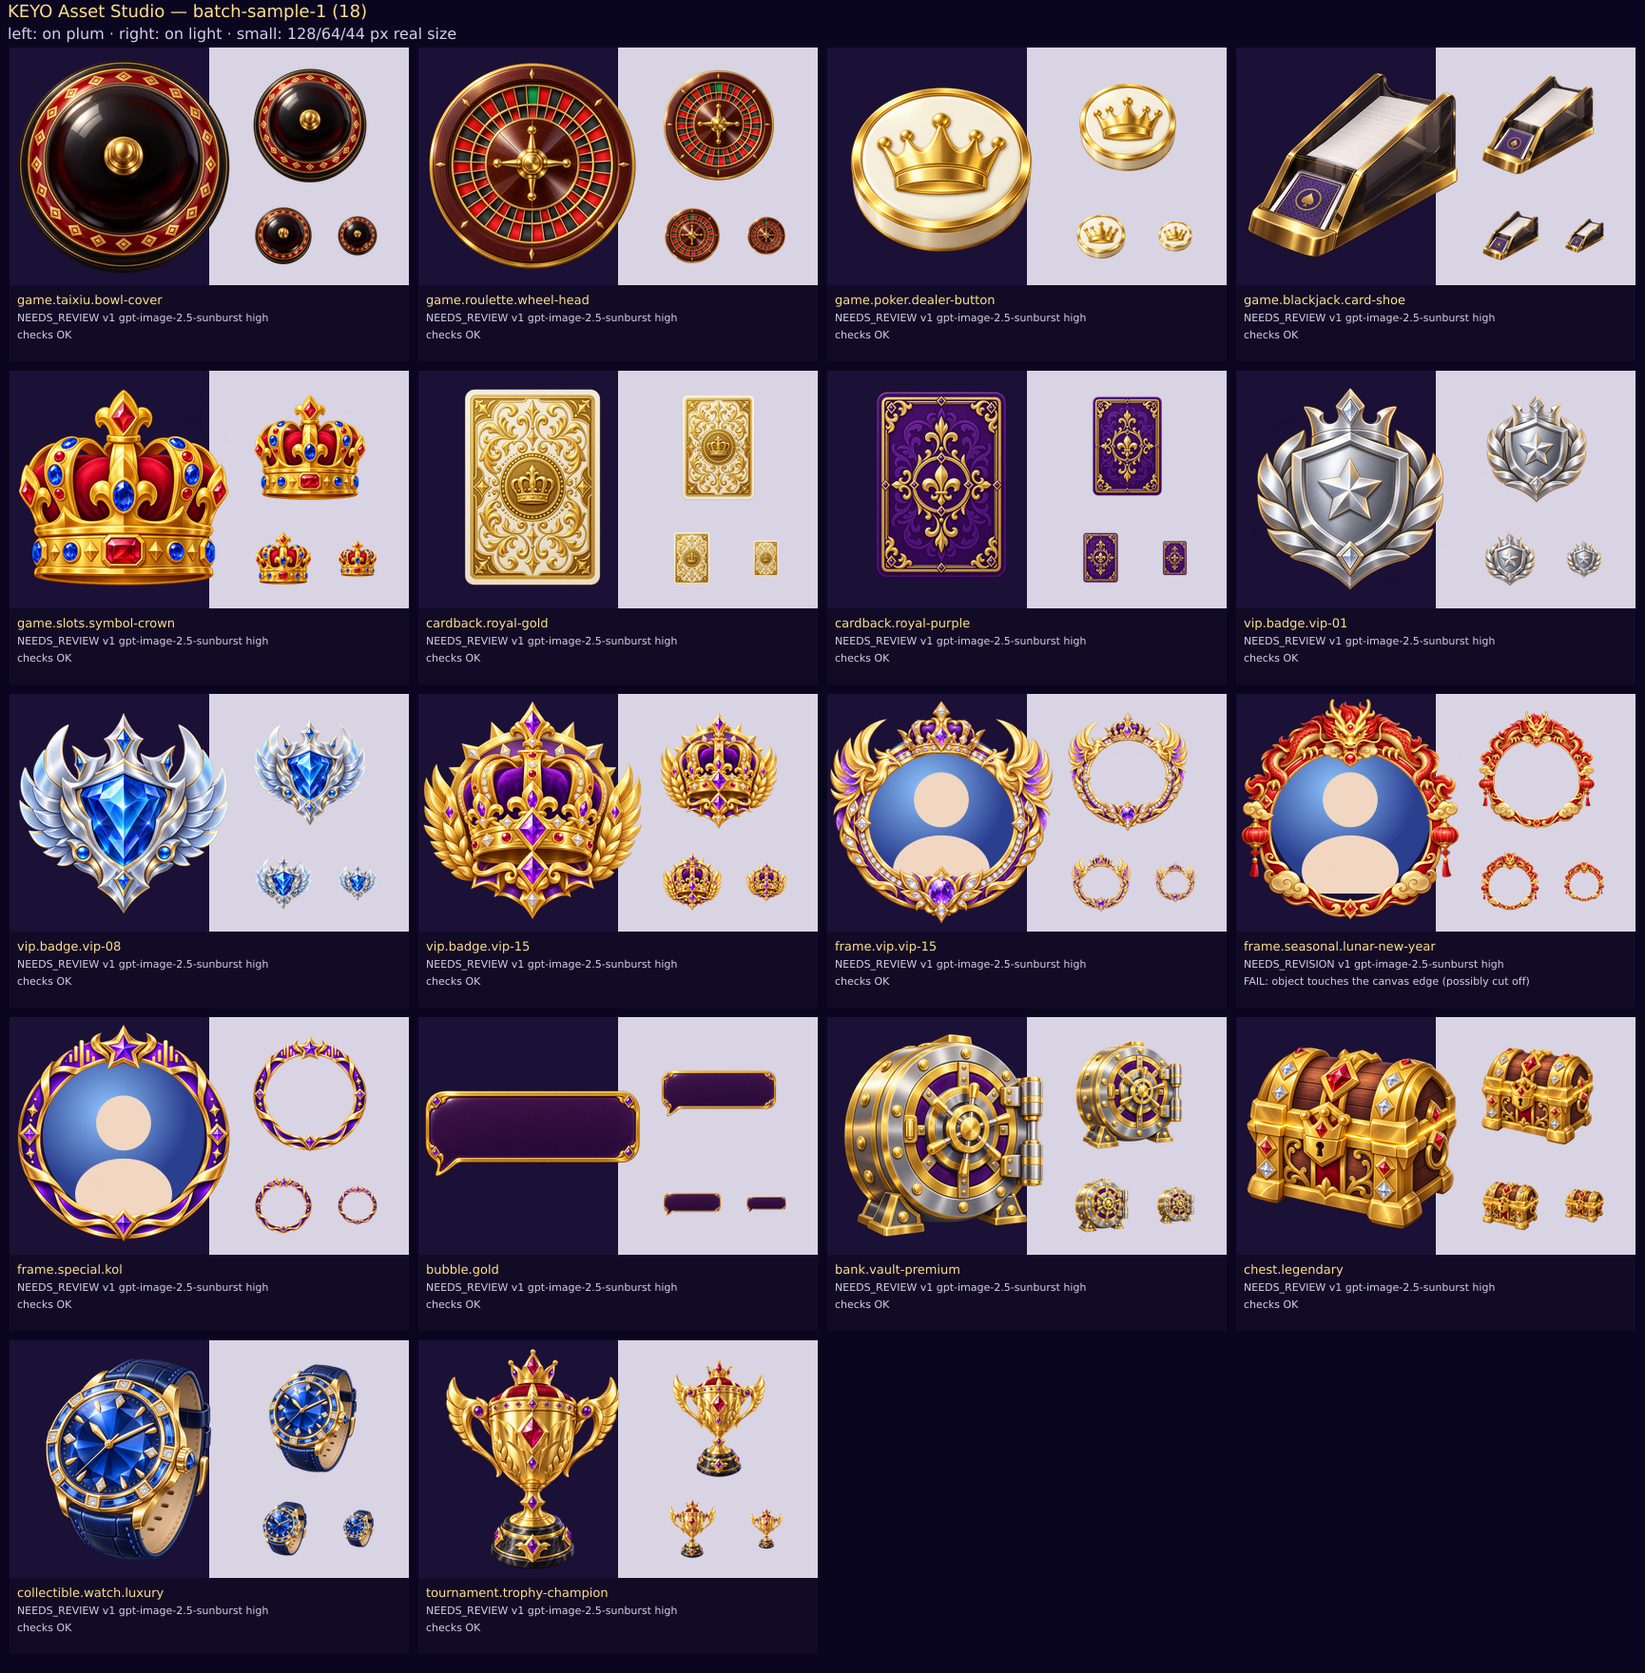
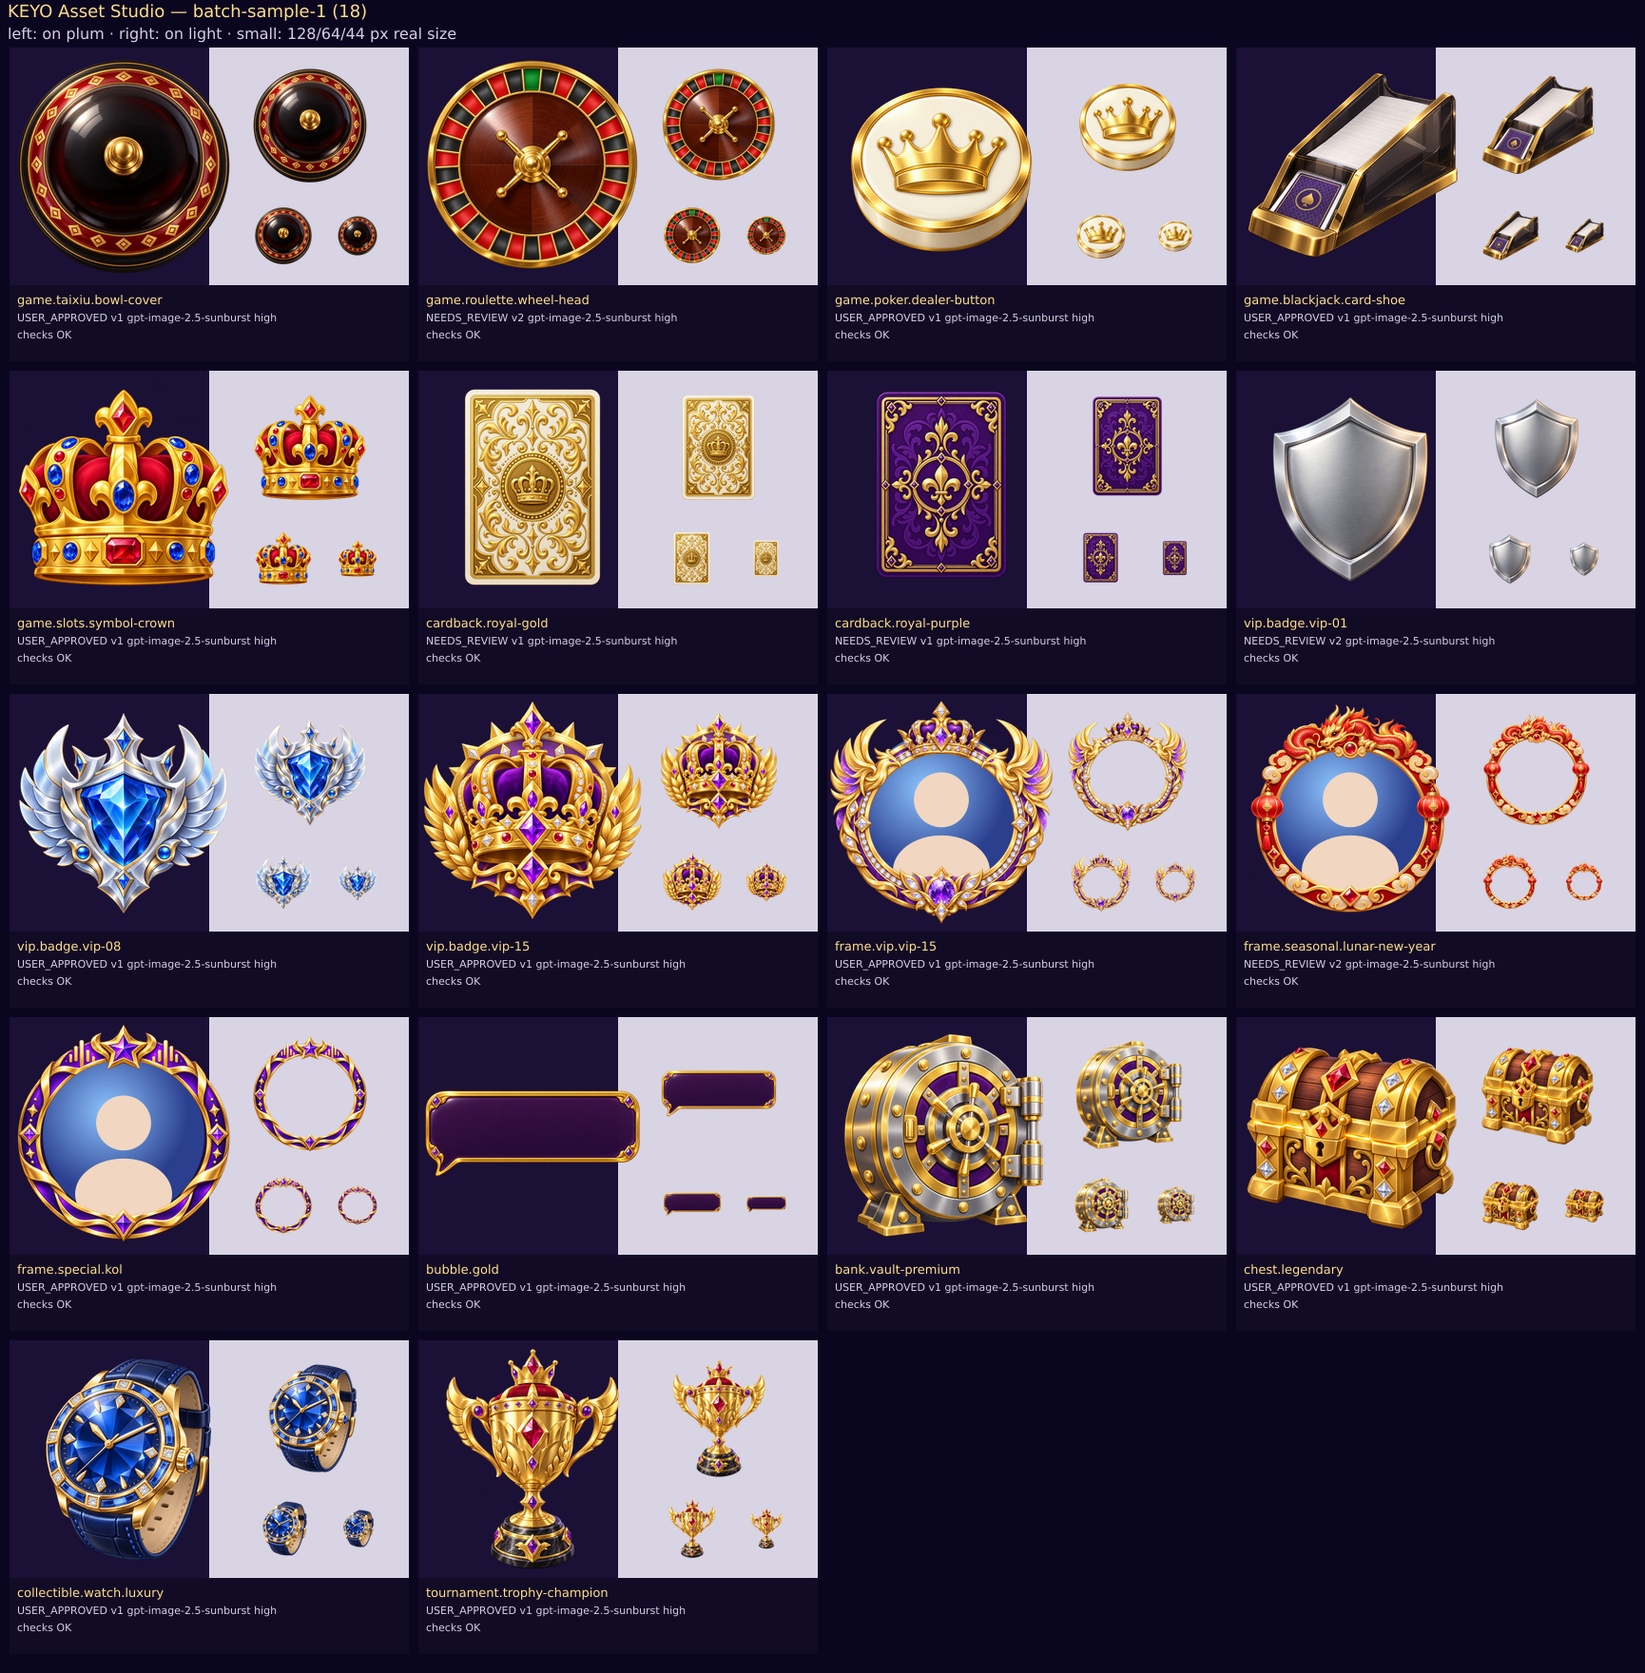
chore(asset-studio): run 42315906533 — manifest, ledger, previews, reports

diff --git a/docs/asset-studio/MANIFEST.md b/docs/asset-studio/MANIFEST.md
@@ -7,9 +7,9 @@ Nguồn dữ liệu: `assets/studio/manifest.json` (sinh từ `tools/asset-studi
 | Trạng thái | Số |
 |---|---|
 | EXISTING_APPROVED | 9 |
-| NEEDS_REVIEW | 17 |
+| USER_APPROVED | 13 |
 | PLANNED | 252 |
-| NEEDS_REVISION | 1 |
+| NEEDS_REVIEW | 5 |
 
 ## Theo nhóm
 
@@ -53,7 +53,7 @@ Nguồn dữ liệu: `assets/studio/manifest.json` (sinh từ `tools/asset-studi
 
 | ID | Tên | Hệ thống | Kích thước | Alpha | Ưu tiên | Batch | Trạng thái | Ước tính (USD) |
 |---|---|---|---|---|---|---|---|---|
-| game.taixiu.bowl-cover | Tài Xỉu bowl cover (top view) | Sic Bo / Tài Xỉu | 1024x1024 | yes | P1 | sample-1 | NEEDS_REVIEW | 0.30 |
+| game.taixiu.bowl-cover | Tài Xỉu bowl cover (top view) | Sic Bo / Tài Xỉu | 1024x1024 | yes | P1 | sample-1 | USER_APPROVED | 0.30 |
 | game.sicbo.dice-plate | Porcelain dice plate | Sic Bo / Tài Xỉu | 1024x1024 | yes | P2 |  | PLANNED | 0.30 |
 | game.sicbo.dice-set | Premium dice (face 1–6 sheet) | Sic Bo / Tài Xỉu | 1536x1024 | yes | P2 |  | PLANNED | 0.45 |
 | game.sicbo.crystal-dome | Crystal shaker dome | Sic Bo / Tài Xỉu | 1024x1024 | yes | P2 |  | PLANNED | 0.30 |
@@ -67,7 +67,7 @@ Nguồn dữ liệu: `assets/studio/manifest.json` (sinh từ `tools/asset-studi
 | game.roulette.pointer | Result pointer | Roulette | 1024x1024 | yes | P2 |  | PLANNED | 0.30 |
 | game.roulette.marker | Betting marker (dolly) | Roulette | 1024x1024 | yes | P2 |  | PLANNED | 0.30 |
 | game.roulette.result-emblem | Result emblem | Roulette | 1024x1024 | yes | P2 |  | PLANNED | 0.30 |
-| game.poker.dealer-button | Dealer button (no letters) | Texas Hold'em Poker | 1024x1024 | yes | P1 | sample-1 | NEEDS_REVIEW | 0.30 |
+| game.poker.dealer-button | Dealer button (no letters) | Texas Hold'em Poker | 1024x1024 | yes | P1 | sample-1 | USER_APPROVED | 0.30 |
 | game.poker.blind-small | Small blind marker | Texas Hold'em Poker | 1024x1024 | yes | P2 |  | PLANNED | 0.30 |
 | game.poker.blind-big | Big blind marker | Texas Hold'em Poker | 1024x1024 | yes | P2 |  | PLANNED | 0.30 |
 | game.poker.pot-pile | Pot chip pile | Texas Hold'em Poker | 1024x1024 | yes | P2 |  | PLANNED | 0.30 |
@@ -79,7 +79,7 @@ Nguồn dữ liệu: `assets/studio/manifest.json` (sinh từ `tools/asset-studi
 | game.cards.action-allin | All-in icon | Card games | 1024x1024 | yes | P2 |  | PLANNED | 0.30 |
 | game.lieng.reveal-fan | Three-card reveal fan | Liêng | 1024x1024 | yes | P2 |  | PLANNED | 0.30 |
 | game.xito.dealer-marker | Xì Tố dealer marker | Xì Tố | 1024x1024 | yes | P2 |  | PLANNED | 0.30 |
-| game.blackjack.card-shoe | Card shoe | Blackjack (Multiplayer & Solo) | 1024x1024 | yes | P1 | sample-1 | NEEDS_REVIEW | 0.30 |
+| game.blackjack.card-shoe | Card shoe | Blackjack (Multiplayer & Solo) | 1024x1024 | yes | P1 | sample-1 | USER_APPROVED | 0.30 |
 | game.blackjack.result-emblem | Blackjack result emblem (no text) | Blackjack (Multiplayer & Solo) | 1024x1024 | yes | P2 |  | PLANNED | 0.30 |
 | game.blackjack.action-hit | Hit icon | Blackjack (Multiplayer & Solo) | 1024x1024 | yes | P2 |  | PLANNED | 0.30 |
 | game.blackjack.action-stand | Stand icon | Blackjack (Multiplayer & Solo) | 1024x1024 | yes | P2 |  | PLANNED | 0.30 |
@@ -94,7 +94,7 @@ Nguồn dữ liệu: `assets/studio/manifest.json` (sinh từ `tools/asset-studi
 | game.slots.symbol-lemon | Slot symbol: lemon | Slots | 1024x1024 | yes | P2 |  | PLANNED | 0.30 |
 | game.slots.symbol-clover | Slot symbol: clover | Slots | 1024x1024 | yes | P2 |  | PLANNED | 0.30 |
 | game.slots.symbol-wild | Slot symbol: wild | Slots | 1024x1024 | yes | P2 |  | PLANNED | 0.30 |
-| game.slots.symbol-crown | Slot symbol: crown | Slots | 1024x1024 | yes | P1 | sample-1 | NEEDS_REVIEW | 0.30 |
+| game.slots.symbol-crown | Slot symbol: crown | Slots | 1024x1024 | yes | P1 | sample-1 | USER_APPROVED | 0.30 |
 | game.slots.symbol-scatter | Slot symbol: scatter | Slots | 1024x1024 | yes | P2 |  | PLANNED | 0.30 |
 | game.slots.symbol-gold-bar | Slot symbol: gold-bar | Slots | 1024x1024 | yes | P2 |  | PLANNED | 0.30 |
 | game.slots.cabinet-frame | Slot machine frame | Slots | 1536x1024 | yes | P2 |  | PLANNED | 0.45 |
@@ -126,14 +126,14 @@ Nguồn dữ liệu: `assets/studio/manifest.json` (sinh từ `tools/asset-studi
 | vip.badge.vip-05 | VIP 5 badge | VIP | 1024x1024 | yes | P2 |  | PLANNED | 0.30 |
 | vip.badge.vip-06 | VIP 6 badge | VIP | 1024x1024 | yes | P2 |  | PLANNED | 0.30 |
 | vip.badge.vip-07 | VIP 7 badge | VIP | 1024x1024 | yes | P2 |  | PLANNED | 0.30 |
-| vip.badge.vip-08 | VIP 8 badge | VIP | 1024x1024 | yes | P1 | sample-1 | NEEDS_REVIEW | 0.30 |
+| vip.badge.vip-08 | VIP 8 badge | VIP | 1024x1024 | yes | P1 | sample-1 | USER_APPROVED | 0.30 |
 | vip.badge.vip-09 | VIP 9 badge | VIP | 1024x1024 | yes | P2 |  | PLANNED | 0.30 |
 | vip.badge.vip-10 | VIP 10 badge | VIP | 1024x1024 | yes | P2 |  | PLANNED | 0.30 |
 | vip.badge.vip-11 | VIP 11 badge | VIP | 1024x1024 | yes | P2 |  | PLANNED | 0.30 |
 | vip.badge.vip-12 | VIP 12 badge | VIP | 1024x1024 | yes | P2 |  | PLANNED | 0.30 |
 | vip.badge.vip-13 | VIP 13 badge | VIP | 1024x1024 | yes | P2 |  | PLANNED | 0.30 |
 | vip.badge.vip-14 | VIP 14 badge | VIP | 1024x1024 | yes | P2 |  | PLANNED | 0.30 |
-| vip.badge.vip-15 | VIP 15 badge | VIP | 1024x1024 | yes | P1 | sample-1 | NEEDS_REVIEW | 0.30 |
+| vip.badge.vip-15 | VIP 15 badge | VIP | 1024x1024 | yes | P1 | sample-1 | USER_APPROVED | 0.30 |
 
 ## frame
 
@@ -142,11 +142,11 @@ Nguồn dữ liệu: `assets/studio/manifest.json` (sinh từ `tools/asset-studi
 | frame.vip.vip-05 | VIP 5 frame | Profile / Avatar frames | 1024x1024 | yes | P2 |  | PLANNED | 0.30 |
 | frame.vip.vip-07 | VIP 7 frame | Profile / Avatar frames | 1024x1024 | yes | P2 |  | PLANNED | 0.30 |
 | frame.vip.vip-10 | VIP 10 frame | Profile / Avatar frames | 1024x1024 | yes | P2 |  | PLANNED | 0.30 |
-| frame.vip.vip-15 | VIP 15 frame | Profile / Avatar frames | 1024x1024 | yes | P1 | sample-1 | NEEDS_REVIEW | 0.30 |
+| frame.vip.vip-15 | VIP 15 frame | Profile / Avatar frames | 1024x1024 | yes | P1 | sample-1 | USER_APPROVED | 0.30 |
 | frame.seasonal.halloween | halloween frame | Profile / Avatar frames | 1024x1024 | yes | P2 |  | PLANNED | 0.30 |
 | frame.seasonal.christmas | christmas frame | Profile / Avatar frames | 1024x1024 | yes | P2 |  | PLANNED | 0.30 |
 | frame.seasonal.new-year | new-year frame | Profile / Avatar frames | 1024x1024 | yes | P2 |  | PLANNED | 0.30 |
-| frame.seasonal.lunar-new-year | lunar-new-year frame | Profile / Avatar frames | 1024x1024 | yes | P1 | sample-1 | NEEDS_REVISION | 0.30 |
+| frame.seasonal.lunar-new-year | lunar-new-year frame | Profile / Avatar frames | 1024x1024 | yes | P1 | sample-1 | NEEDS_REVIEW | 0.30 |
 | frame.seasonal.valentine | valentine frame | Profile / Avatar frames | 1024x1024 | yes | P2 |  | PLANNED | 0.30 |
 | frame.seasonal.easter | easter frame | Profile / Avatar frames | 1024x1024 | yes | P2 |  | PLANNED | 0.30 |
 | frame.seasonal.summer | summer frame | Profile / Avatar frames | 1024x1024 | yes | P2 |  | PLANNED | 0.30 |
@@ -162,7 +162,7 @@ Nguồn dữ liệu: `assets/studio/manifest.json` (sinh từ `tools/asset-studi
 | frame.tournament.grand-champion | Tournament grand-champion frame | Profile / Avatar frames | 1024x1024 | yes | P2 |  | PLANNED | 0.30 |
 | frame.special.founder | founder frame | Profile / Avatar frames | 1024x1024 | yes | P2 |  | PLANNED | 0.30 |
 | frame.special.early-supporter | early-supporter frame | Profile / Avatar frames | 1024x1024 | yes | P2 |  | PLANNED | 0.30 |
-| frame.special.kol | kol frame | Profile / Avatar frames | 1024x1024 | yes | P1 | sample-1 | NEEDS_REVIEW | 0.30 |
+| frame.special.kol | kol frame | Profile / Avatar frames | 1024x1024 | yes | P1 | sample-1 | USER_APPROVED | 0.30 |
 | frame.special.creator | creator frame | Profile / Avatar frames | 1024x1024 | yes | P2 |  | PLANNED | 0.30 |
 | frame.special.reviewer | reviewer frame | Profile / Avatar frames | 1024x1024 | yes | P2 |  | PLANNED | 0.30 |
 | frame.special.collector | collector frame | Profile / Avatar frames | 1024x1024 | yes | P2 |  | PLANNED | 0.30 |
@@ -191,7 +191,7 @@ Nguồn dữ liệu: `assets/studio/manifest.json` (sinh từ `tools/asset-studi
 |---|---|---|---|---|---|---|---|---|
 | bubble.default | Chat bubble: default | Chat | 1536x1024 | yes | P2 |  | PLANNED | 0.45 |
 | bubble.classic | Chat bubble: classic | Chat | 1536x1024 | yes | P2 |  | PLANNED | 0.45 |
-| bubble.gold | Chat bubble: gold | Chat | 1536x1024 | yes | P1 | sample-1 | NEEDS_REVIEW | 0.45 |
+| bubble.gold | Chat bubble: gold | Chat | 1536x1024 | yes | P1 | sample-1 | USER_APPROVED | 0.45 |
 | bubble.diamond | Chat bubble: diamond | Chat | 1536x1024 | yes | P2 |  | PLANNED | 0.45 |
 | bubble.vip | Chat bubble: vip | Chat | 1536x1024 | yes | P2 |  | PLANNED | 0.45 |
 | bubble.royal | Chat bubble: royal | Chat | 1536x1024 | yes | P2 |  | PLANNED | 0.45 |
@@ -261,7 +261,7 @@ Nguồn dữ liệu: `assets/studio/manifest.json` (sinh từ `tools/asset-studi
 
 | ID | Tên | Hệ thống | Kích thước | Alpha | Ưu tiên | Batch | Trạng thái | Ước tính (USD) |
 |---|---|---|---|---|---|---|---|---|
-| bank.vault-premium | Bank: vault-premium | Bank | 1024x1024 | yes | P1 | sample-1 | NEEDS_REVIEW | 0.30 |
+| bank.vault-premium | Bank: vault-premium | Bank | 1024x1024 | yes | P1 | sample-1 | USER_APPROVED | 0.30 |
 | bank.vault-open | Bank: vault-open | Bank | 1024x1024 | yes | P2 |  | PLANNED | 0.30 |
 | bank.money-bag | Bank: money-bag | Bank | 1024x1024 | yes | P2 |  | PLANNED | 0.30 |
 | bank.money-bag-vip | Bank: money-bag-vip | Bank | 1024x1024 | yes | P2 |  | PLANNED | 0.30 |
@@ -273,7 +273,7 @@ Nguồn dữ liệu: `assets/studio/manifest.json` (sinh từ `tools/asset-studi
 | chest.common | Chest: common | Rewards | 1024x1024 | yes | P2 |  | PLANNED | 0.30 |
 | chest.rare | Chest: rare | Rewards | 1024x1024 | yes | P2 |  | PLANNED | 0.30 |
 | chest.epic | Chest: epic | Rewards | 1024x1024 | yes | P2 |  | PLANNED | 0.30 |
-| chest.legendary | Chest: legendary | Rewards | 1024x1024 | yes | P1 | sample-1 | NEEDS_REVIEW | 0.30 |
+| chest.legendary | Chest: legendary | Rewards | 1024x1024 | yes | P1 | sample-1 | USER_APPROVED | 0.30 |
 | chest.limited | Chest: limited | Rewards | 1024x1024 | yes | P2 |  | PLANNED | 0.30 |
 | chest.event | Chest: event | Rewards | 1024x1024 | yes | P2 |  | PLANNED | 0.30 |
 
@@ -282,7 +282,7 @@ Nguồn dữ liệu: `assets/studio/manifest.json` (sinh từ `tools/asset-studi
 | ID | Tên | Hệ thống | Kích thước | Alpha | Ưu tiên | Batch | Trạng thái | Ước tính (USD) |
 |---|---|---|---|---|---|---|---|---|
 | collectible.watch.classic | watch: classic | Collectibles / Gifts | 1024x1024 | yes | P2 |  | PLANNED | 0.30 |
-| collectible.watch.luxury | watch: luxury | Collectibles / Gifts | 1024x1024 | yes | P1 | sample-1 | NEEDS_REVIEW | 0.30 |
+| collectible.watch.luxury | watch: luxury | Collectibles / Gifts | 1024x1024 | yes | P1 | sample-1 | USER_APPROVED | 0.30 |
 | collectible.watch.gold | watch: gold | Collectibles / Gifts | 1024x1024 | yes | P2 |  | PLANNED | 0.30 |
 | collectible.watch.diamond | watch: diamond | Collectibles / Gifts | 1024x1024 | yes | P2 |  | PLANNED | 0.30 |
 | collectible.watch.limited | watch: limited | Collectibles / Gifts | 1024x1024 | yes | P2 |  | PLANNED | 0.30 |
@@ -312,7 +312,7 @@ Nguồn dữ liệu: `assets/studio/manifest.json` (sinh từ `tools/asset-studi
 | ID | Tên | Hệ thống | Kích thước | Alpha | Ưu tiên | Batch | Trạng thái | Ước tính (USD) |
 |---|---|---|---|---|---|---|---|---|
 | tournament.trophy | Tournament: trophy | Tournament | 1024x1024 | yes | P2 |  | PLANNED | 0.30 |
-| tournament.trophy-champion | Tournament: trophy-champion | Tournament | 1024x1024 | yes | P1 | sample-1 | NEEDS_REVIEW | 0.30 |
+| tournament.trophy-champion | Tournament: trophy-champion | Tournament | 1024x1024 | yes | P1 | sample-1 | USER_APPROVED | 0.30 |
 | tournament.medal | Tournament: medal | Tournament | 1024x1024 | yes | P2 |  | PLANNED | 0.30 |
 | tournament.ticket | Tournament: ticket | Tournament | 1024x1024 | yes | P2 |  | PLANNED | 0.30 |
 | tournament.banner | Tournament: banner | Tournament | 1024x1024 | yes | P2 |  | PLANNED | 0.30 |

diff --git a/docs/asset-studio/QUALITY.md b/docs/asset-studio/QUALITY.md
@@ -4,21 +4,21 @@ Kiểm tra kỹ thuật tự động (file, kích thước, alpha thật, viền
 
 | Asset | Trạng thái | Kết quả | Lỗi | Cảnh báo | Coverage | Edge alpha | Sharpness | WebP |
 |---|---|---|---|---|---|---|---|---|
-| game.taixiu.bowl-cover | NEEDS_REVIEW | OK |  |  | 0.681 | 0 | 1319.1 | 168 KB |
-| game.roulette.wheel-head | NEEDS_REVIEW | OK |  |  | 0.645 | 0 | 1620.2 | 208 KB |
-| game.poker.dealer-button | NEEDS_REVIEW | OK |  |  | 0.461 | 0 | 684.1 | 99 KB |
-| game.blackjack.card-shoe | NEEDS_REVIEW | OK |  |  | 0.441 | 0 | 907.1 | 129 KB |
-| game.slots.symbol-crown | NEEDS_REVIEW | OK |  |  | 0.546 | 0 | 1369.2 | 178 KB |
+| game.taixiu.bowl-cover | USER_APPROVED | OK |  |  | 0.681 | 0 | 1319.1 | 168 KB |
+| game.roulette.wheel-head | NEEDS_REVIEW | OK |  |  | 0.663 | 0 | 1249.4 | 191 KB |
+| game.poker.dealer-button | USER_APPROVED | OK |  |  | 0.461 | 0 | 684.1 | 99 KB |
+| game.blackjack.card-shoe | USER_APPROVED | OK |  |  | 0.441 | 0 | 907.1 | 129 KB |
+| game.slots.symbol-crown | USER_APPROVED | OK |  |  | 0.546 | 0 | 1369.2 | 178 KB |
 | cardback.royal-gold | NEEDS_REVIEW | OK |  |  | 0.765 | 0 | 3005 | 206 KB |
 | cardback.royal-purple | NEEDS_REVIEW | OK |  |  | 0.692 | 0 | 2166.4 | 154 KB |
-| vip.badge.vip-01 | NEEDS_REVIEW | OK |  |  | 0.464 | 0 | 939.6 | 137 KB |
-| vip.badge.vip-08 | NEEDS_REVIEW | OK |  |  | 0.462 | 0 | 1251.1 | 188 KB |
-| vip.badge.vip-15 | NEEDS_REVIEW | OK |  |  | 0.568 | 0.013 | 1693.1 | 228 KB |
-| frame.vip.vip-15 | NEEDS_REVIEW | OK |  |  | 0.373 | 0.028 | 1550.9 | 245 KB |
-| frame.seasonal.lunar-new-year | NEEDS_REVISION | FAIL | object touches the canvas edge (possibly cut off) |  | 0.326 | 0.014 | 1009.5 | 202 KB |
-| frame.special.kol | NEEDS_REVIEW | OK |  |  | 0.271 | 0.002 | 974.5 | 153 KB |
-| bubble.gold | NEEDS_REVIEW | OK |  |  | 0.441 | 0.001 | 478.1 | 39 KB |
-| bank.vault-premium | NEEDS_REVIEW | OK |  |  | 0.609 | 0 | 1358.7 | 181 KB |
-| chest.legendary | NEEDS_REVIEW | OK |  |  | 0.571 | 0 | 1395.4 | 193 KB |
-| collectible.watch.luxury | NEEDS_REVIEW | OK |  |  | 0.496 | 0 | 1402.1 | 172 KB |
-| tournament.trophy-champion | NEEDS_REVIEW | OK |  |  | 0.318 | 0.014 | 1139 | 171 KB |
+| vip.badge.vip-01 | NEEDS_REVIEW | OK |  |  | 0.386 | 0 | 345.4 | 67 KB |
+| vip.badge.vip-08 | USER_APPROVED | OK |  |  | 0.462 | 0 | 1251.1 | 188 KB |
+| vip.badge.vip-15 | USER_APPROVED | OK |  |  | 0.568 | 0.013 | 1693.1 | 228 KB |
+| frame.vip.vip-15 | USER_APPROVED | OK |  |  | 0.373 | 0.028 | 1550.9 | 245 KB |
+| frame.seasonal.lunar-new-year | NEEDS_REVIEW | OK |  |  | 0.274 | 0 | 817.7 | 164 KB |
+| frame.special.kol | USER_APPROVED | OK |  |  | 0.271 | 0.002 | 974.5 | 153 KB |
+| bubble.gold | USER_APPROVED | OK |  |  | 0.441 | 0.001 | 478.1 | 39 KB |
+| bank.vault-premium | USER_APPROVED | OK |  |  | 0.609 | 0 | 1358.7 | 181 KB |
+| chest.legendary | USER_APPROVED | OK |  |  | 0.571 | 0 | 1395.4 | 193 KB |
+| collectible.watch.luxury | USER_APPROVED | OK |  |  | 0.496 | 0 | 1402.1 | 172 KB |
+| tournament.trophy-champion | USER_APPROVED | OK |  |  | 0.318 | 0.014 | 1139 | 171 KB |

diff --git a/docs/asset-studio/BUDGET.md b/docs/asset-studio/BUDGET.md
@@ -1,10 +1,10 @@
 # Budget Tracking (generated)
 
 - Ngân sách đã duyệt: **$10**
-- Đã tính vào ngân sách: **$0.9568** (chi phí thật từ token usage khi API trả về; nếu không có thì tính theo ước tính trần)
-- Chi phí thật theo token usage × bảng giá đã xác minh: $0.9568; tổng ước tính trần: $5.85
-- Còn lại theo bộ đếm nội bộ: **$9.04**
-- Ảnh đã tạo: 18; yêu cầu đã chạy: 2026-11-06-01-probe-dry-run, 2026-11-06-02-sample-1-generate
+- Đã tính vào ngân sách: **$1.1231** (chi phí thật từ token usage khi API trả về; nếu không có thì tính theo ước tính trần)
+- Chi phí thật theo token usage × bảng giá đã xác minh: $1.1231; tổng ước tính trần: $6.75
+- Còn lại theo bộ đếm nội bộ: **$8.88**
+- Ảnh đã tạo: 21; yêu cầu đã chạy: 2026-11-06-01-probe-dry-run, 2026-11-06-02-sample-1-generate, 2026-11-07-01-sample-1-revisions
 
 > Bộ đếm nội bộ không thay thế giới hạn chi tiêu của OpenAI Platform. Số thực tế xem tại OpenAI dashboard → Usage.
 
@@ -28,6 +28,9 @@
 | 2026-11-06T23:54:40.764Z | 2026-11-06-02-sample-1-generate | vip.badge.vip-01 | gpt-image-2.5-sunburst | high | 1024x1024 | yes | $0.30 | in 462 / out 1756 |
 | 2026-11-06T23:55:11.139Z | 2026-11-06-02-sample-1-generate | vip.badge.vip-08 | gpt-image-2.5-sunburst | high | 1024x1024 | yes | $0.30 | in 465 / out 1756 |
 | 2026-11-06T23:55:43.100Z | 2026-11-06-02-sample-1-generate | vip.badge.vip-15 | gpt-image-2.5-sunburst | high | 1024x1024 | yes | $0.30 | in 485 / out 1756 |
+| 2026-11-07T00:04:47.313Z | 2026-11-07-01-sample-1-revisions | frame.seasonal.lunar-new-year | gpt-image-2.5-sunburst | high | 1024x1024 | yes | $0.30 | in 566 / out 1756 |
+| 2026-11-07T00:05:15.893Z | 2026-11-07-01-sample-1-revisions | game.roulette.wheel-head | gpt-image-2.5-sunburst | high | 1024x1024 | yes | $0.30 | in 575 / out 1756 |
+| 2026-11-07T00:05:43.746Z | 2026-11-07-01-sample-1-revisions | vip.badge.vip-01 | gpt-image-2.5-sunburst | high | 1024x1024 | yes | $0.30 | in 514 / out 1756 |
 
 ## Dự toán phần còn lại
 
